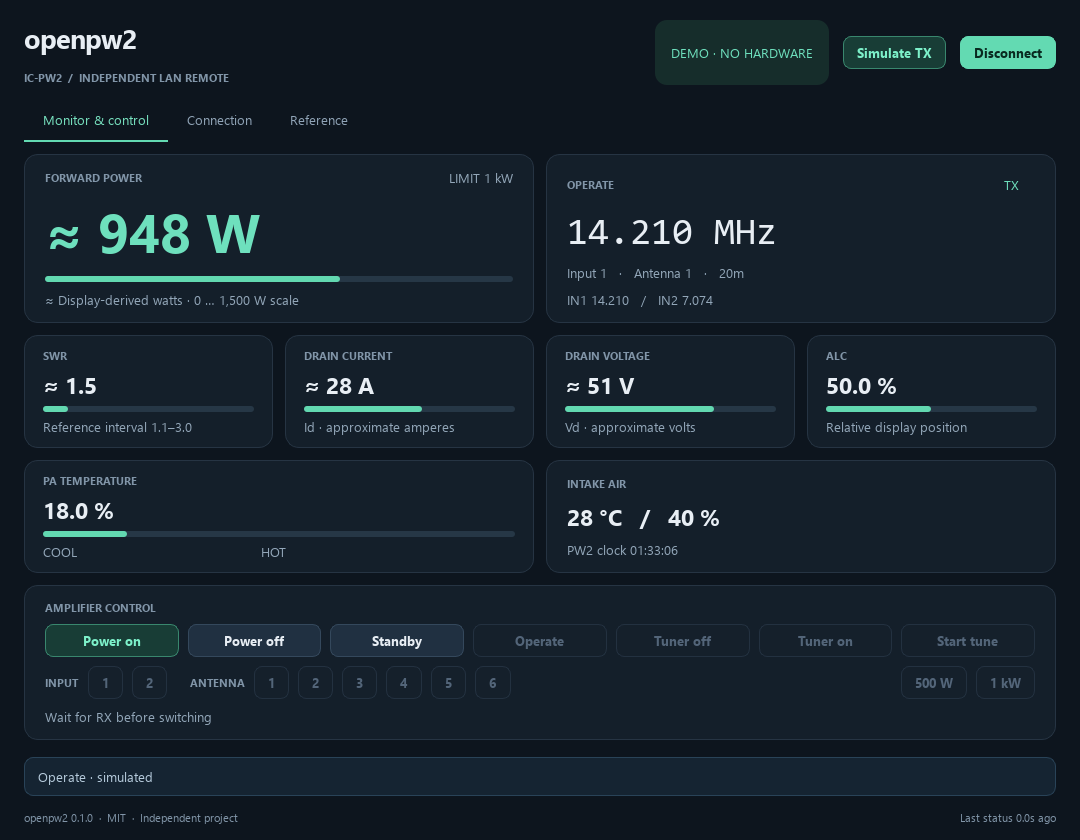
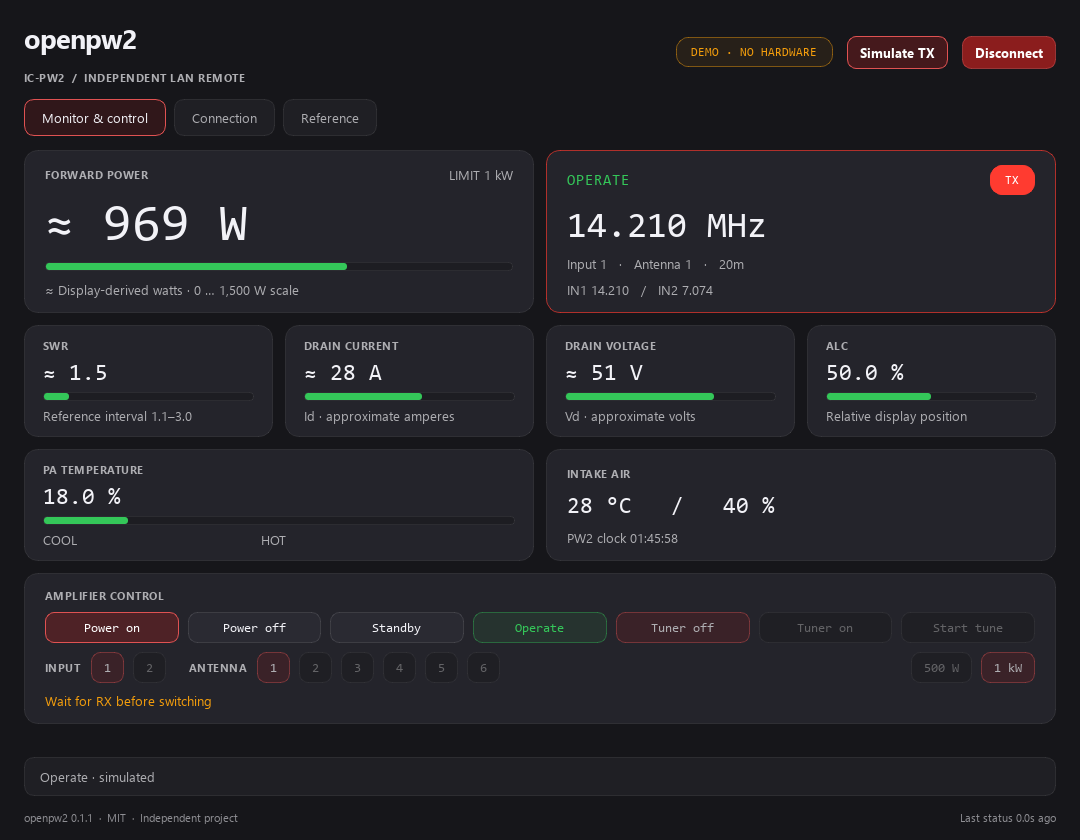
Apply HamRig design system to openpw2 desktop UI

diff --git a/src/openpw2/gui/window.py b/src/openpw2/gui/window.py
@@ -6,7 +6,7 @@ import json
 import time
 from pathlib import Path
 
-from PySide6.QtCore import QTimer
+from PySide6.QtCore import Qt, QTimer
 from PySide6.QtWidgets import (
     QComboBox,
     QFileDialog,
@@ -33,6 +33,7 @@ from openpw2.client import ConnectionConfig, block_reason
 
 from . import settings
 from .bridge import Bridge
+from .theme import set_tone, stylesheet
 
 
 def label(text="", name=None):
@@ -81,7 +82,7 @@ class Window(QMainWindow):
         self.setWindowTitle("openpw2 · IC-PW2 remote")
         self.resize(1080, 840)
         self.setMinimumSize(850, 650)
-        self.setStyleSheet(Path(__file__).with_name("theme.qss").read_text(encoding="utf-8"))
+        self.setStyleSheet(stylesheet())
         self.bridge = bridge or Bridge()
         self.state = {}
         self.received = 0.0
@@ -101,7 +102,7 @@ class Window(QMainWindow):
         header.addLayout(name)
         header.addStretch()
         self.connection_badge = label("DISCONNECTED", "status")
-        header.addWidget(self.connection_badge)
+        header.addWidget(self.connection_badge, 0, Qt.AlignmentFlag.AlignVCenter)
         self.demo_button = QPushButton("Try demo")
         self.demo_button.clicked.connect(self.start_demo)
         header.addWidget(self.demo_button)
@@ -166,8 +167,9 @@ class Window(QMainWindow):
         power_layout.addWidget(self.power_hint)
         hero.addWidget(power, 3)
         frequency, frequency_layout = card()
+        self.frequency_card = frequency
         row = QHBoxLayout()
-        self.mode_label = label("STANDBY / —", "eyebrow")
+        self.mode_label = label("—", "mode")
         row.addWidget(self.mode_label)
         row.addStretch()
         self.tx_label = label("—", "status")
@@ -233,7 +235,7 @@ class Window(QMainWindow):
         for level, text in (("500", "500 W"), ("1k", "1 kW")):
             route.addWidget(self._command_button(text, "level", {"id": level}))
         controls_layout.addLayout(route)
-        self.guard_label = label("", "muted")
+        self.guard_label = label("", "guard")
         controls_layout.addWidget(self.guard_label)
         layout.addWidget(controls)
         layout.addStretch()
@@ -243,6 +245,9 @@ class Window(QMainWindow):
     def _command_button(self, text, name, args):
         button = QPushButton(text)
         button.setCheckable(name != "tune")
+        button.setProperty("control", True)
+        if name == "operate":
+            button.setProperty("selectionTone", "ok" if args["value"] else "warn")
         button.setObjectName(f"command_{name}_{next(iter(args.values()), 'start')}")
         button.clicked.connect(lambda checked=False: self.send_command(name, args))
         self.buttons.append((button, name, args))
@@ -253,7 +258,7 @@ class Window(QMainWindow):
         layout = QVBoxLayout(page)
         layout.setContentsMargins(0, 18, 0, 0)
         box, inner = card()
-        inner.addWidget(label("Connect to your IC-PW2", "meterValue"))
+        inner.addWidget(label("Connect to your IC-PW2", "sectionTitle"))
         hint = label(
             "Enable LAN remote access on the PW2. Use the user ID and password configured on the amplifier.",
             "muted",
@@ -419,12 +424,15 @@ class Window(QMainWindow):
         display = state.get("meter_display") if on else None
         bars = display.get("values", {}) if display and display.get("mode") == "bars" else {}
         self.po_bar.setValue(round(bars.get("po", {}).get("percent", 0) * 10))
+        self.po_bar.setEnabled("po" in bars)
         self.power_hint.setText(
             "Select bar view on the PW2 to receive all six meters"
             if on and display and display.get("mode") == "needles"
             else "≈ Display-derived watts · 0 … 1,500 W scale"
         )
-        mode = "OPERATE" if state.get("operate") else "STANDBY"
+        mode = (
+            "OPERATE" if state.get("operate") is True else "STANDBY" if state.get("operate") is False else "—"
+        )
         self.mode_label.setText(
             mode if on else "POWER OFF" if connected and state.get("power") == "off" else "—"
         )
@@ -503,6 +511,55 @@ class Window(QMainWindow):
             else "Command pending…"
             if self.busy
             else reason or "RX ready · switching enabled"
+        )
+
+        # HamRig amplifier semantics: green Operate, amber Standby / tuning,
+        # blue RX and a solid red TX badge. Labels always accompany colour.
+        set_tone(
+            self.connection_badge,
+            "warn"
+            if connected and self.is_demo
+            else "ok"
+            if connected
+            else "bad"
+            if state.get("error")
+            else "neutral",
+        )
+        set_tone(
+            self.mode_label,
+            "ok"
+            if on and state.get("operate") is True
+            else "warn"
+            if on and state.get("operate") is False
+            else "neutral",
+        )
+        set_tone(
+            self.tx_label,
+            "warn"
+            if on and state.get("tuning")
+            else "tx"
+            if on and state.get("tx") is True
+            else "info"
+            if on and state.get("tx") is False
+            else "neutral",
+        )
+        set_tone(
+            self.frequency_card,
+            "bad"
+            if on and state.get("protection_lamp")
+            else "tx"
+            if on and state.get("tx") is True
+            else "neutral",
+        )
+        set_tone(
+            self.guard_label,
+            "bad"
+            if on and state.get("protection_lamp")
+            else "warn"
+            if connected and (reason or self.busy)
+            else "ok"
+            if connected
+            else "neutral",
         )
 
     def export_snapshot(self):

diff --git a/src/openpw2/gui/theme.py b/src/openpw2/gui/theme.py
@@ -1,0 +1,55 @@
+"""HamRig design tokens adapted to Qt; no portal or network dependency.
+
+Source: Gateway 3 webui/theme.css and drivers/amp/web/amps.css, commit
+6e28350 (portal tokens dated 2026-10-05). See docs/design.md for the mapping.
+"""
+
+from pathlib import Path
+from string import Template
+
+TOKENS = {
+    "hamrig_dark": "#16161A",
+    "hamrig_dark_2": "#1F1F24",
+    "hamrig_dark_3": "#24242B",
+    "hamrig_dark_4": "#31313A",
+    "hamrig_light": "#F2F2F7",
+    "hamrig_light_2": "#AEAEB2",
+    "hamrig_light_3": "#636366",
+    "hamrig_light_muted": "#8E8E93",
+    "hamrig_accent": "#8B1D1D",
+    "hamrig_accent_tint": "#E05252",
+    "hamrig_primary_dark": "#5F0F12",
+    "hamrig_success": "#34C759",
+    "hamrig_warning": "#FF9500",
+    "hamrig_danger": "#FF3B30",
+    "hamrig_info": "#0A84FF",
+    "hamrig_border": "rgba(255, 255, 255, 20)",
+    "hamrig_border_light": "rgba(255, 255, 255, 13)",
+    "surface_high": "#2A2A32",
+    "amp_bezel": "#1D1D22",
+    "amp_rim": "#3A3A44",
+    "amp_warn": "#F59E0B",
+    "alarm_text": "#FF8A82",
+    "font_primary": '"Inter", "Segoe UI", "DejaVu Sans"',
+    "font_mono": '"JetBrains Mono", "Fira Code", "Consolas", "DejaVu Sans Mono"',
+}
+
+
+def stylesheet() -> str:
+    """Expand CSS-token equivalents; Qt QSS has no CSS custom properties."""
+    folder = Path(__file__).parent
+    values = {
+        **TOKENS,
+        "chevron_down": (folder / "chevron-down.svg").as_posix(),
+        "chevron_up": (folder / "chevron-up.svg").as_posix(),
+    }
+    return Template(folder.joinpath("theme.qss").read_text(encoding="utf-8")).substitute(values)
+
+
+def set_tone(widget, tone: str) -> None:
+    """Repolish only when a semantic state changes, not on every meter tick."""
+    if widget.property("tone") != tone:
+        widget.setProperty("tone", tone)
+        widget.style().unpolish(widget)
+        widget.style().polish(widget)
+        widget.update()

diff --git a/tools/build_desktop.py b/tools/build_desktop.py
@@ -55,7 +55,7 @@ def main():
         check=True,
     )
     output = ROOT / "dist/openpw2"
-    for name in ("LICENSE", "THIRD_PARTY.md", "README.md", "CONTRIBUTING.md"):
+    for name in ("LICENSE", "THIRD_PARTY.md", "README.md", "CONTRIBUTING.md", "CHANGELOG.md"):
         shutil.copyfile(ROOT / name, output / name)
     shutil.copytree(ROOT / "docs", output / "docs", dirs_exist_ok=True)
     notices = output / "licenses"

diff --git a/src/openpw2/__init__.py b/src/openpw2/__init__.py
@@ -3,7 +3,7 @@
 from .client import Client, ConnectionConfig
 from .errors import AuthenticationError, CommandBlocked, ConnectionLost, ProtocolError
 
-__version__ = "0.1.0"
+__version__ = "0.1.1"
 __all__ = [
     "Client",
     "ConnectionConfig",

diff --git a/docs/design.md b/docs/design.md
@@ -1,0 +1,36 @@
+# HamRig design system
+
+The Qt desktop UI uses the same design tokens and component language as HamRig
+Gateway 3 and its amplifier panel. The reference is Gateway commit `6e28350`:
+
+- `hamrig_gateway3/webui/theme.css`: portal token values dated 2026-10-05.
+- `hamrig_gateway3/webui/app.css`: forms, primary actions, focus and surfaces.
+- `hamrig_gateway3/drivers/amp/web/amps.css`: amplifier readouts, selected
+  controls, status colours and TX emphasis (portal origin `7a213648`).
+
+`src/openpw2/gui/theme.py` contains the shared values, using underscore names
+for the equivalent CSS custom properties. `theme.qss` contains the Qt component
+rules; Python's `Template` expands tokens because QSS has no `var()` support.
+Qt uses integer alpha values from 0 to 255 in its rgba colours.
+
+| Role | HamRig value / treatment |
+|---|---|
+| Main / secondary / card / hover | #16161A / #1F1F24 / #24242B / #31313A |
+| Main / secondary / muted text | #F2F2F7 / #AEAEB2 / #8E8E93 |
+| Primary action / accent outline | #8B1D1D / #E05252 |
+| Normal meters / Operate | #34C759 |
+| Standby / tuning / demo indication | #F59E0B (amplifier warning token) |
+| RX / TX and protection | #0A84FF / #FF3B30 |
+| Cards / controls / tabs | rounded 14 / 9 / 10 px, subtle light borders |
+| Interface / numeric readouts | Inter / JetBrains Mono font stacks |
+
+Like the offline Gateway UI, fonts fall back to installed system fonts
+(Segoe UI and Consolas on Windows). No CDN or downloaded fonts are required.
+Colours accompany readable state labels. Selected controls remain identifiable
+when TX interlocks disable them. Keyboard focus uses the accent outline.
+No new measurement thresholds or hardware commands are introduced by the theme.
+
+The desktop layout remains compact and native. It does not load portal CSS or
+require HamRig at runtime. To update the design, compare the source tokens and
+amplifier state styles, change the mapping, then render and inspect the actual
+Qt widgets with `python tools/render_demo.py`.

diff --git a/docs/architecture.md b/docs/architecture.md
@@ -21,6 +21,7 @@ gui/bridge.py ── dedicated asyncio thread
 | `demo.py` | Interactive local model, no sockets or imported hardware settings |
 | `gui/bridge.py` | Event-loop thread and signal boundary; orderly cancellation/shutdown |
 | `gui/window.py` | Confirmed-state dashboard, connection form and sanitized reference view |
+| `gui/theme.py`, `gui/theme.qss` | HamRig tokens, component styles and semantic status colours |
 | `gui/settings.py` | Atomic preference save; password explicitly excluded |
 
 No Qt types occur in the protocol layer. State uses plain dictionaries so it

diff --git a/README.md b/README.md
@@ -6,7 +6,8 @@ readable reference implementation of its native **RS-PW2 LAN protocol**.
 ![openpw2 in hardware-free demo mode](docs/images/demo.png)
 
 **MIT licensed. No HamRig installation, vendor application or vendor DLL needed.**
-The client library depends only on `cryptography`; the optional GUI uses PySide6.
+The client library depends only on `cryptography`; the optional GUI uses PySide6
+and follows the [HamRig design system](docs/design.md).
 This is an independent interoperability project, not an Icom product.
 
 ## Start

diff --git a/CHANGELOG.md b/CHANGELOG.md
@@ -1,0 +1,14 @@
+# Changelog
+
+## 0.1.1
+
+- Apply the HamRig design system to the native Qt interface: shared charcoal
+  surfaces, crimson actions, tabular readouts, amplifier state colours,
+  visible selected/disabled controls and dark form widgets.
+- Document token provenance and the Qt adaptation in `docs/design.md`.
+- Update the screenshot and Windows portable build. LAN commands and
+  measurement decoding are unchanged.
+
+## 0.1.0
+
+- Initial independent LAN client, desktop UI, demo and protocol reference.
